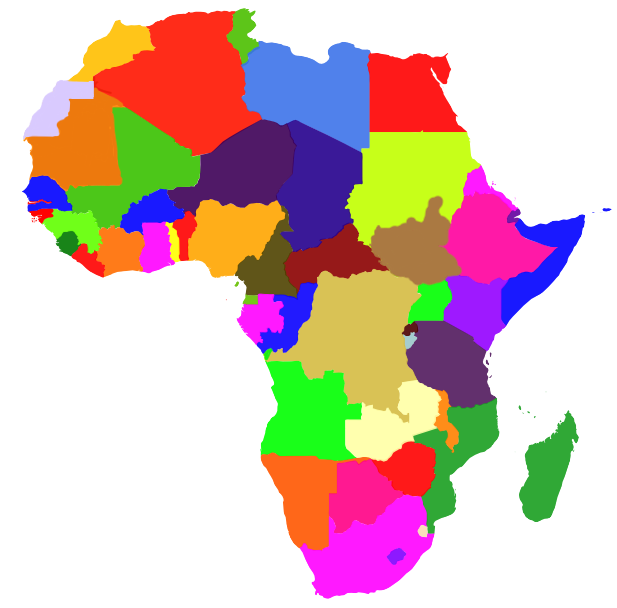
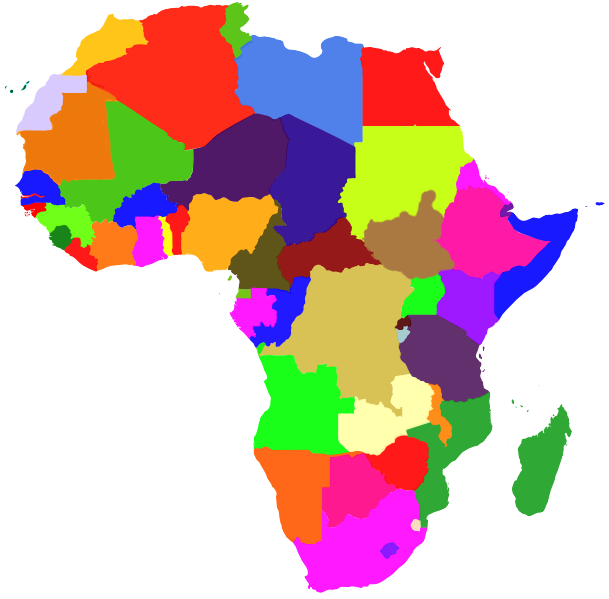
Updated Facts and Flags

diff --git a/CapstoneProject/src/Map.java b/CapstoneProject/src/Map.java
@@ -165,6 +165,7 @@ public class Map {
 		else if(r==255 && g==2 && b==2) return "Guinea-Bissau";
 		else if(r==25 && g==132 && b==25) return "Sierra Leone";
 		else if(r==255 && g==123 && b==25) return "Côte D'Ivore";
+		else if(r==50 && g==110 && b==175) return "Cabo Verde";
 		else return null;
 	}
 	
@@ -228,6 +229,7 @@ public class Map {
 		else if (s.equalsIgnoreCase("Guinea-Bissau")) return "Bissau";
 		else if (s.equalsIgnoreCase("Sierra Leone")) return "Freetown";
 		else if (s.equalsIgnoreCase("Côte D'Ivore")) return "Yamoussoukro";
+		else if (s.equalsIgnoreCase("Cabo Verde") || s.equalsIgnoreCase("Cape Verde")) return "Praia";
 		else return null;
 		
 	}
